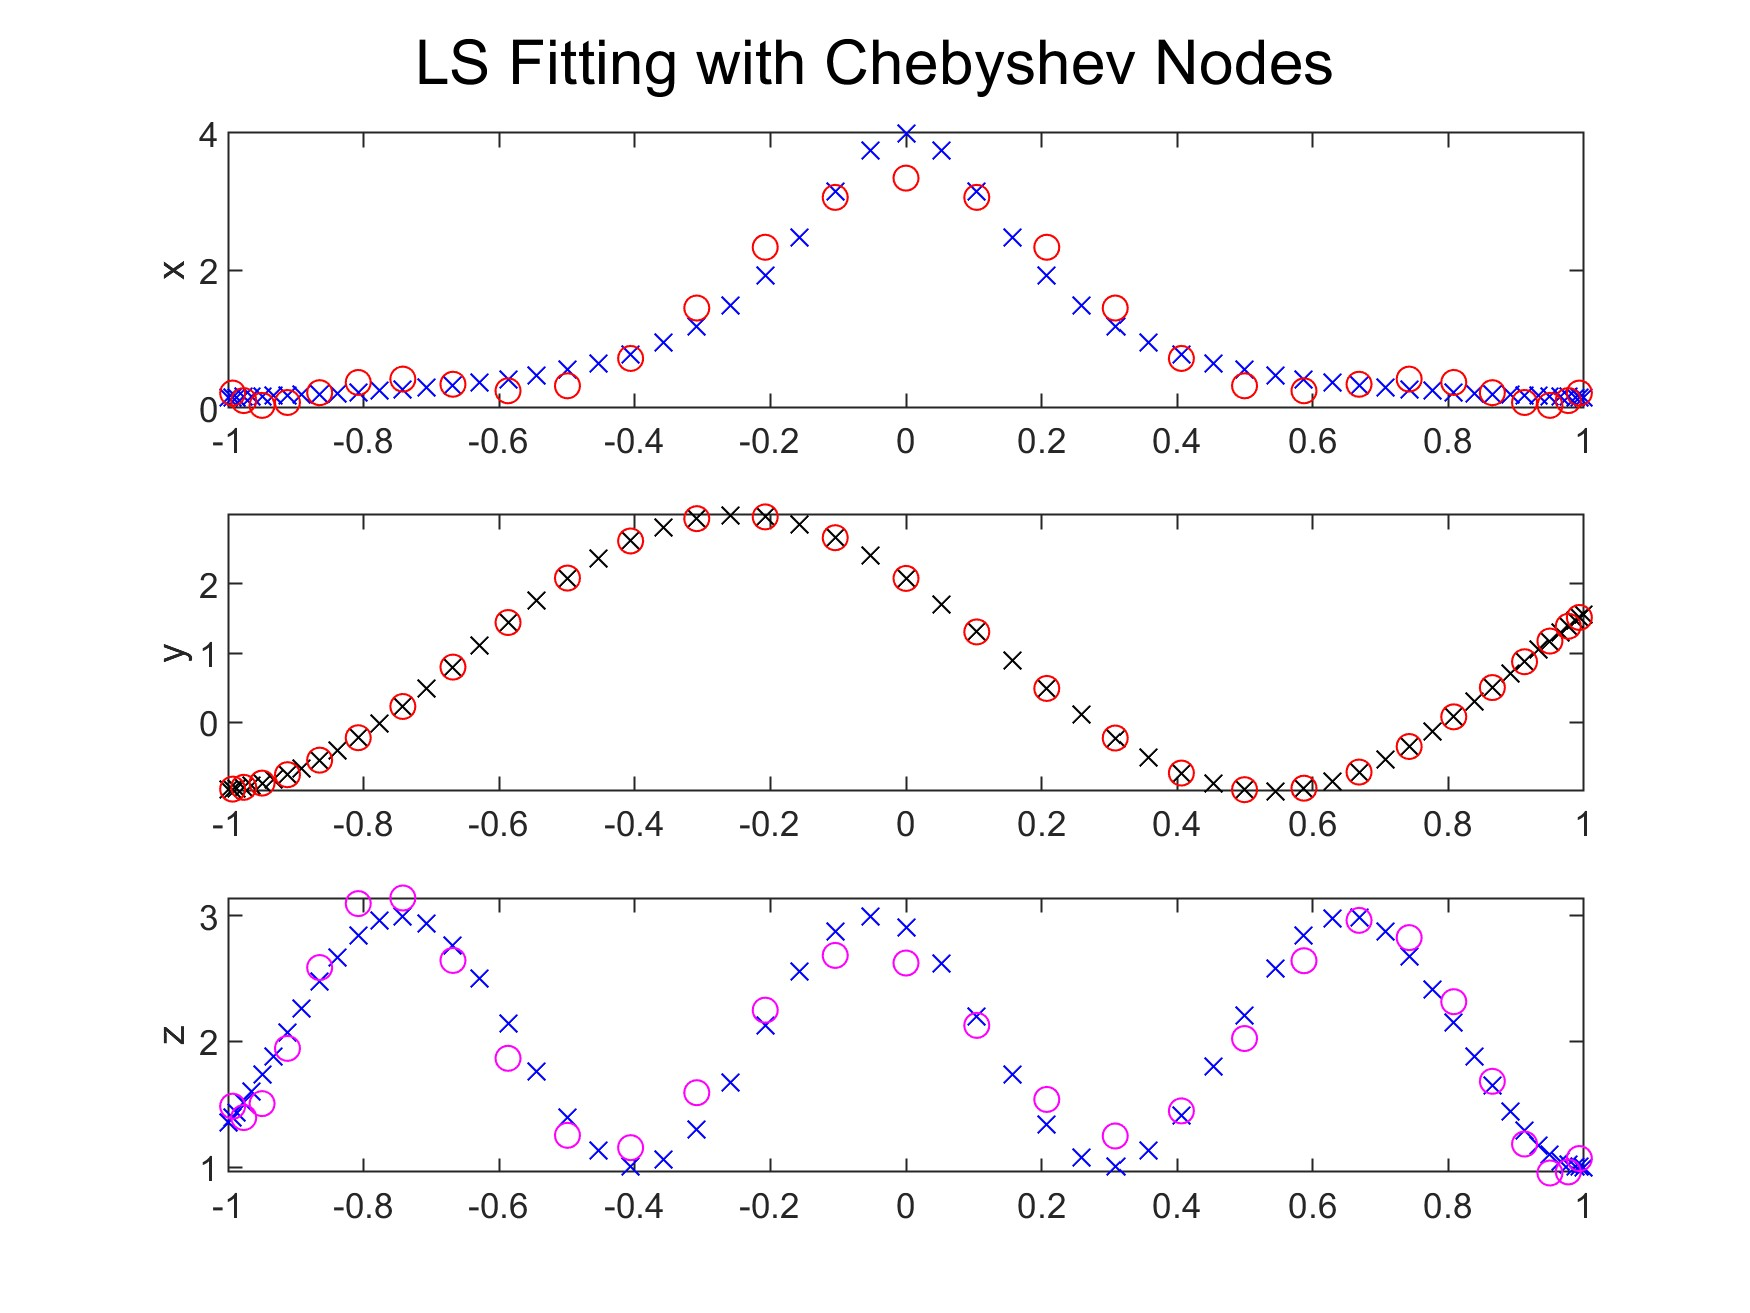
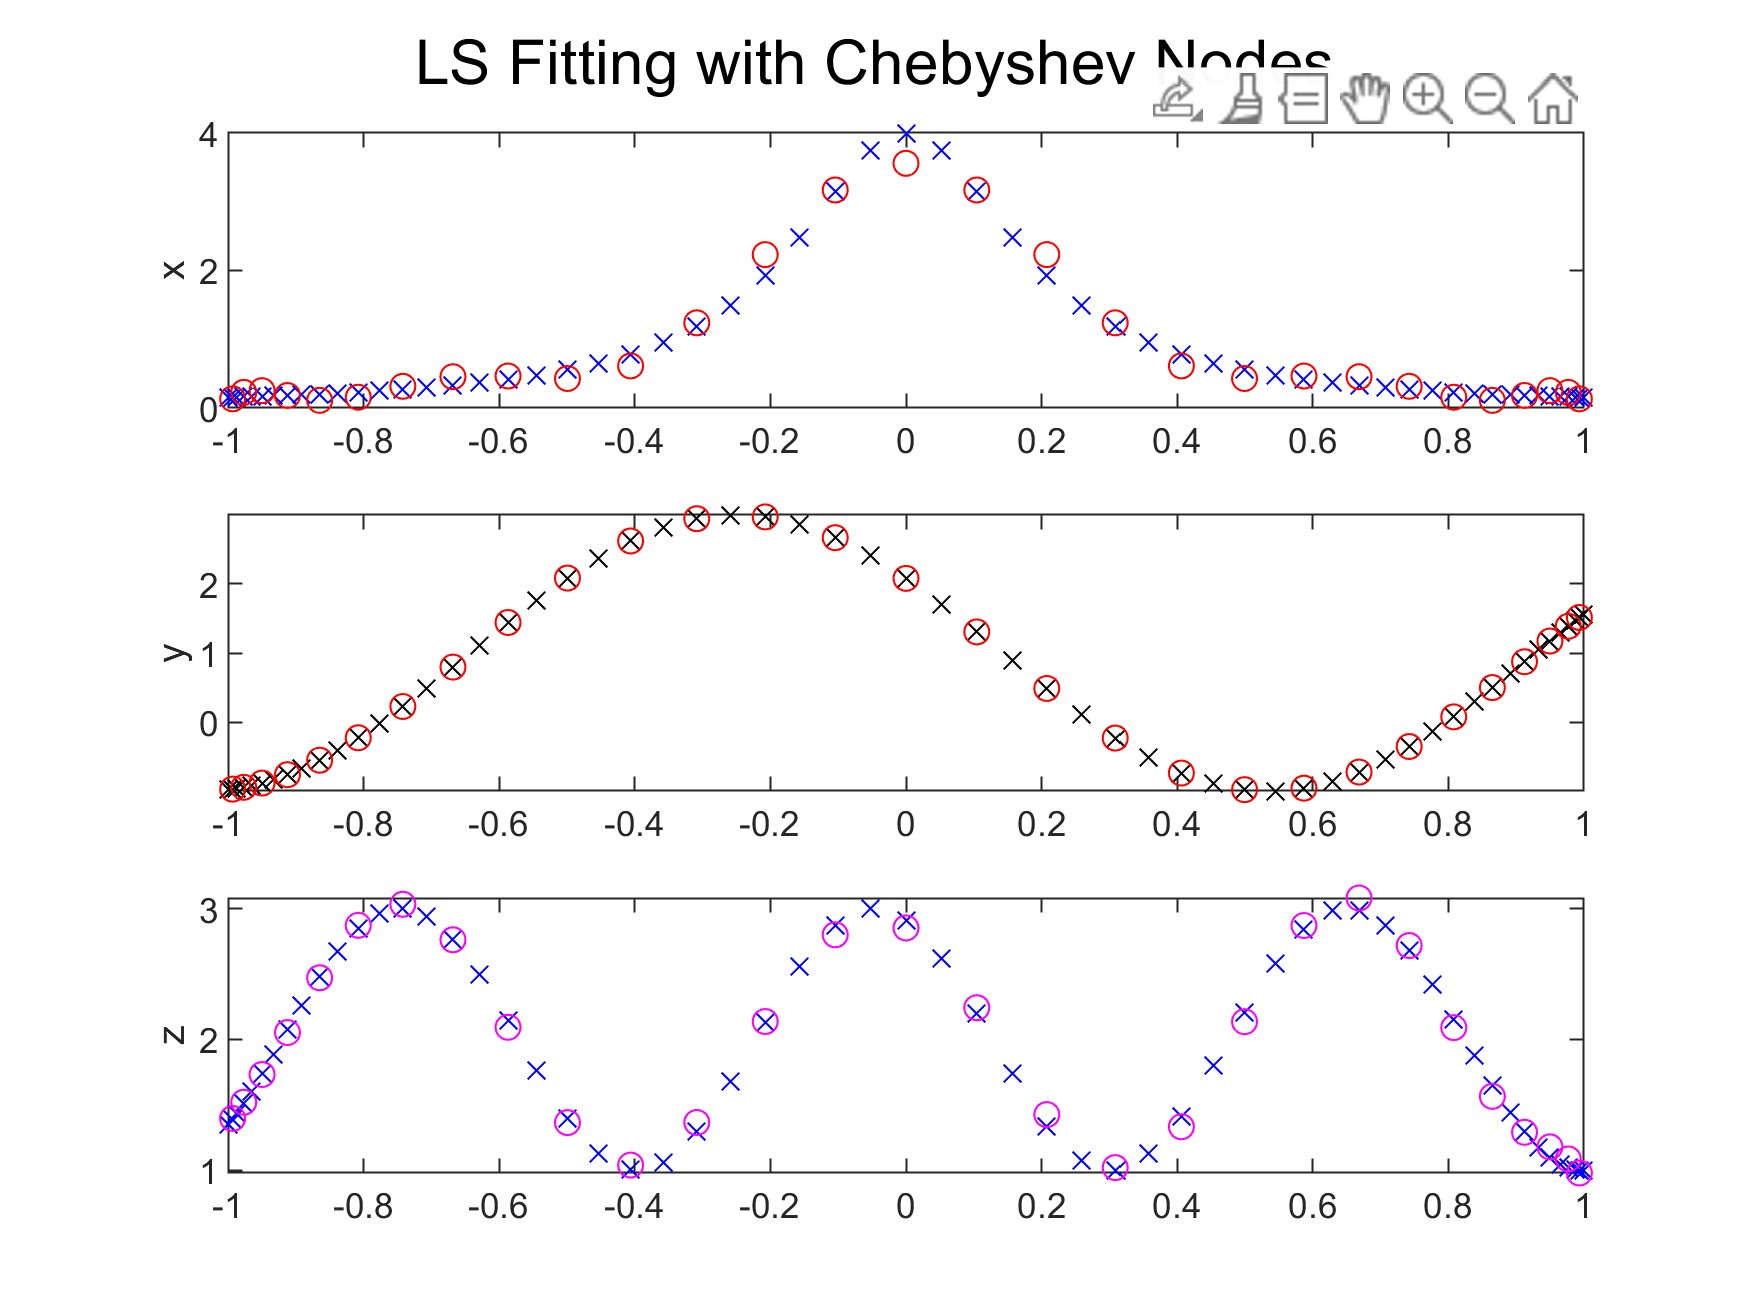
updating images and poly degree

diff --git a/hw_2/LS_q_2.m b/hw_2/LS_q_2.m
@@ -13,7 +13,7 @@ fig_flag = 0;
 %% set DoFs with polynomial fitting 
 
 % ..  exact if n = m-1, approximated and regulated if n < m-1 
-n  = 9;                         % set the dimension (DoF) lower 
+n  = 10;                         % set the dimension (DoF) lower 
 
 nx = n;                         % DoF for each coordinate 
 ny = n;
@@ -86,7 +86,7 @@ fig_flag = 0;
 %% set DoFs with polynomial fitting 
 
 % ..  exact if n = m-1, approximated and regulated if n < m-1 
-n  = 9;                         % set the dimension (DoF) lower 
+n  = 10;                         % set the dimension (DoF) lower 
 
 nx = n;                         % DoF for each coordinate 
 ny = n;
@@ -151,8 +151,8 @@ print('LS_Fitting_with_Chebyshev_Nodes.jpg', '-djpeg', '-r300');
 %% ... prescribed conditions on adaptation 
 
 % high enough tolerance or low enough degree will give us a poly probably
-rtau  = 0.25;
-nmax  = 30;
+rtau  = 0.005;
+nmax  = 10;
 
 fprintf('\n   initial sample set and Runge fitting ... ');
 nmin  = 5; 
@@ -202,7 +202,6 @@ figure('Name','adaptive sampling-fitting')
 plot( xk, yk, 'bx', xkmid, ykmid,  'bx')
 hold on 
 plot( xk, pvalk, 'ro', xkmid, pvalkmid, 'ro');
-plot( xfine, yfine, 'k-.'); 
 hold off 
 deg_rmax = sprintf( 'degree %d, rmax=%1.3f', n-1, rkmax );
 title( ['LS Adaptive Sampling-fitting: ', deg_rmax ] ); 
